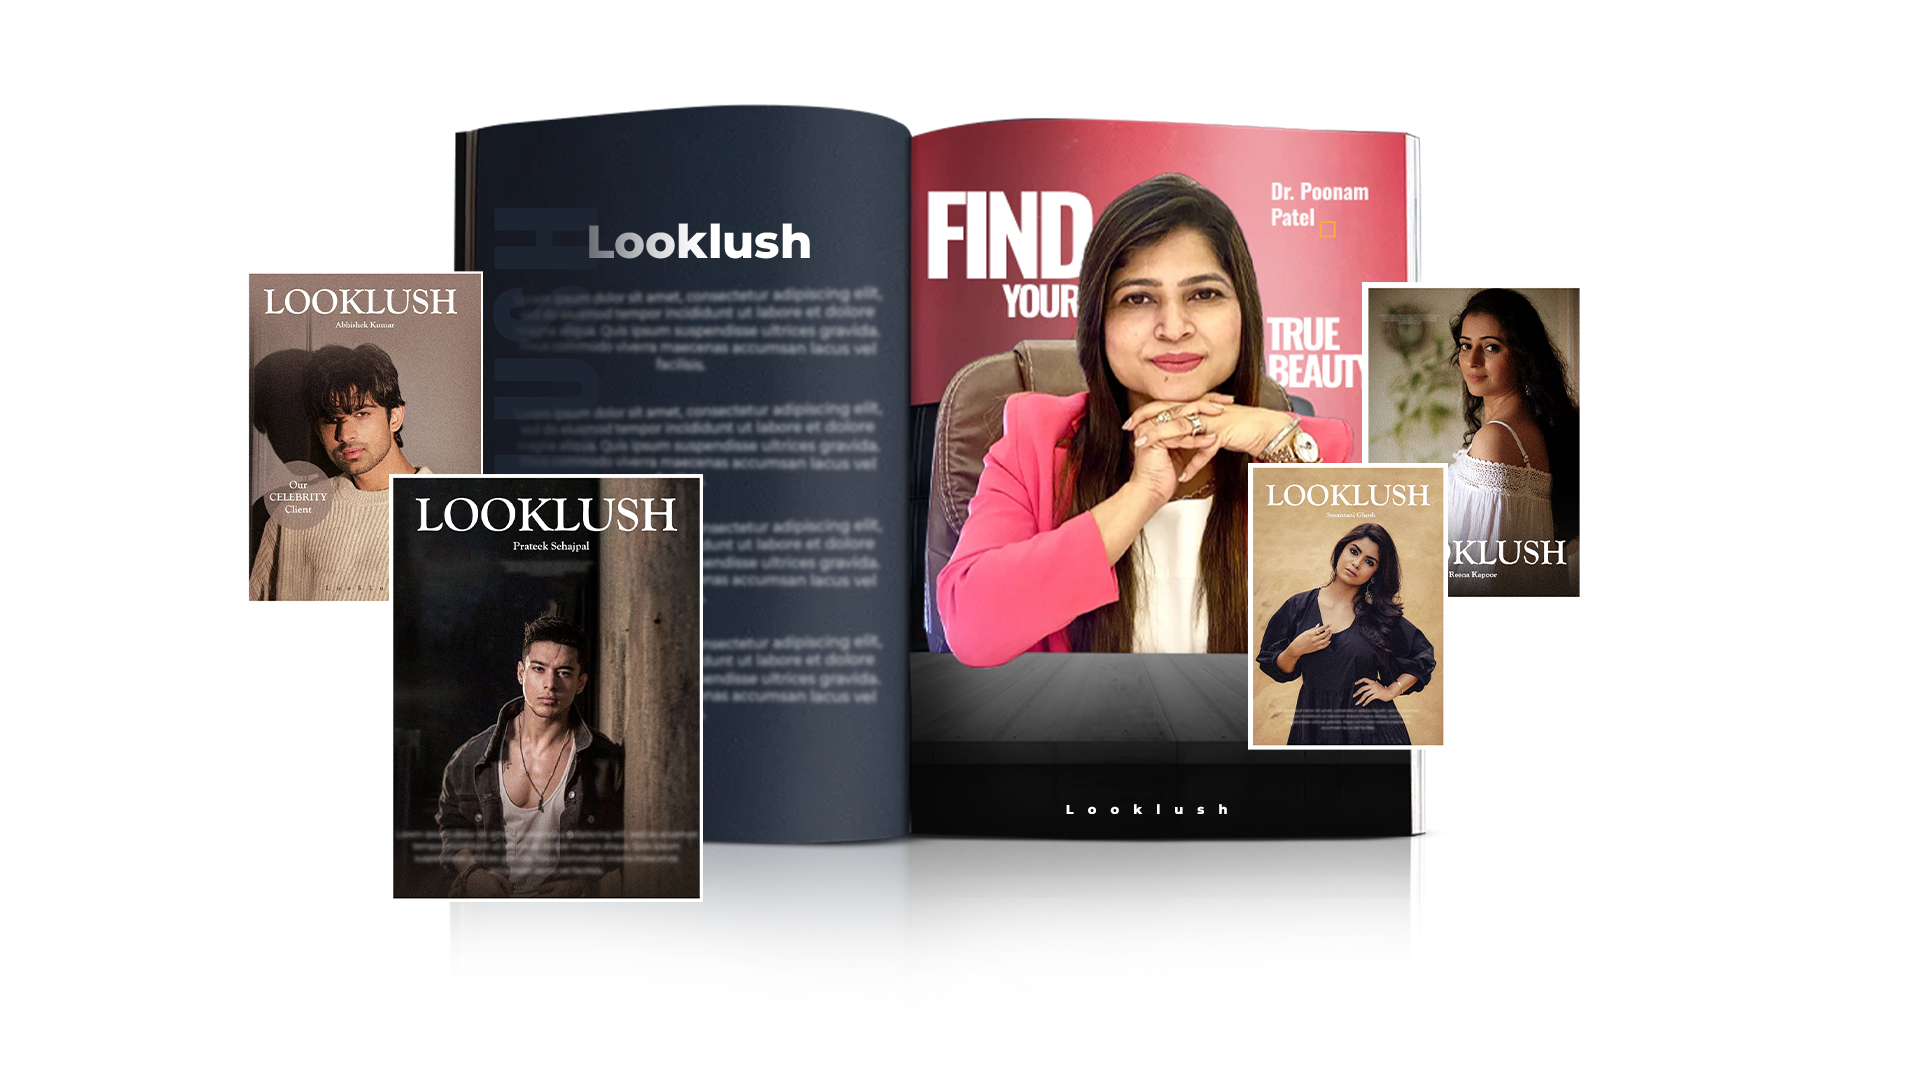
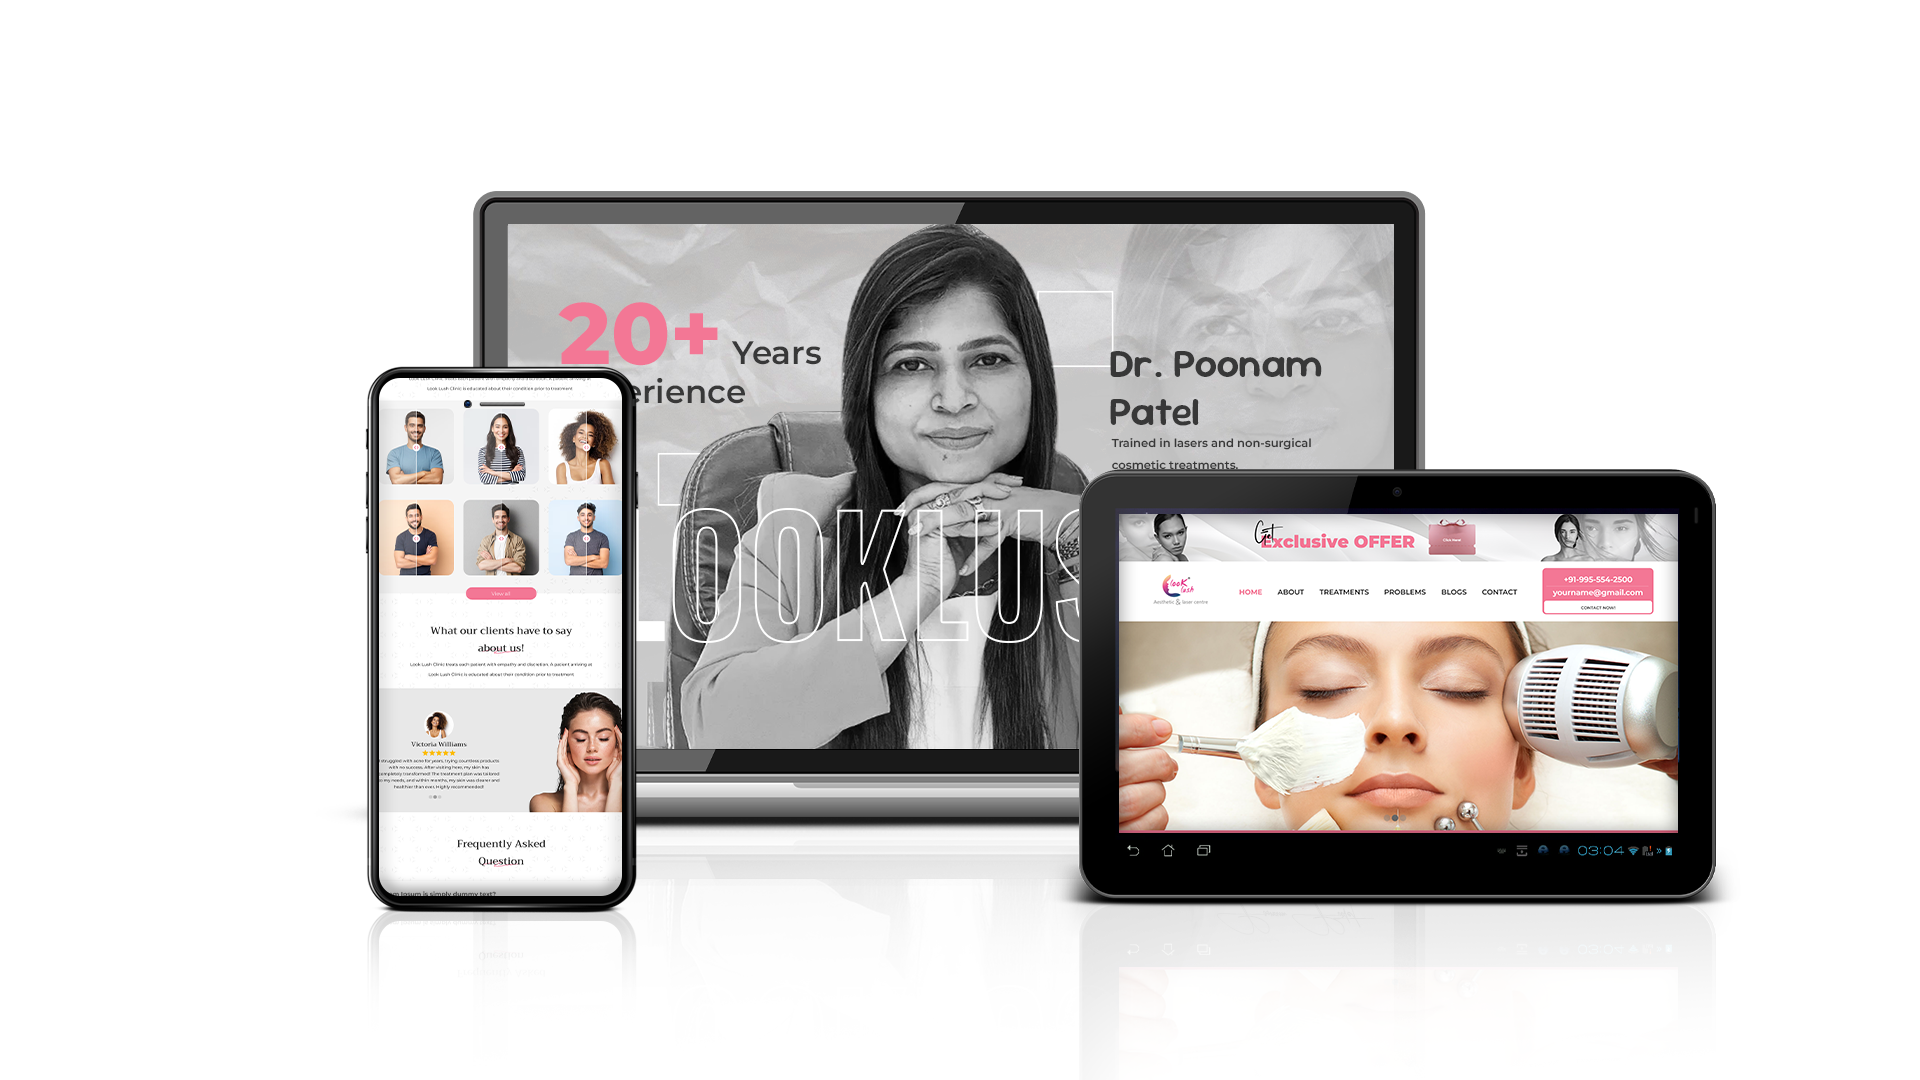
some changes done

diff --git a/src/components/common/PriceTable/index.tsx b/src/components/common/PriceTable/index.tsx
@@ -1,55 +1,6 @@
 import { PriceItem } from "@/lib/types";
 import styles from "./PriceTable.module.css";
-// const priceData2: PriceItem[] = [
-//     {
-//         service: "Acne Star",
-//         market_price: "₹999",
-//         our_price: "₹699",
-//         diff: "₹300",
-//         value: "300+ Customers",
-//         achievement: "Book Appointment",
-//     },
-//     {
-//         service: "Glow Facial",
-//         market_price: "₹1200",
-//         our_price: "₹850",
-//         diff: "₹350",
-//         value: "500+ Customers",
-//         achievement: "Book Appointment",
-//     },
-//     {
-//         service: "Hair Spa",
-//         market_price: "₹1500",
-//         our_price: "₹999",
-//         diff: "₹501",
-//         value: "250+ Customers",
-//         achievement: "Book Appointment",
-//     },
-//     {
-//         service: "Acne Star",
-//         market_price: "₹999",
-//         our_price: "₹699",
-//         diff: "₹300",
-//         value: "300+ Customers",
-//         achievement: "Book Appointment",
-//     },
-//     {
-//         service: "Glow Facial",
-//         market_price: "₹1200",
-//         our_price: "₹850",
-//         diff: "₹350",
-//         value: "500+ Customers",
-//         achievement: "Book Appointment",
-//     },
-//     {
-//         service: "Hair Spa",
-//         market_price: "₹1500",
-//         our_price: "₹999",
-//         diff: "₹501",
-//         value: "250+ Customers",
-//         achievement: "Book Appointment",
-//     },
-// ];
+import Link from "next/link";
 const PriceTabel = ({ priceData }: { priceData: PriceItem[] }) => {
   return (
     <div className={`${styles.priceTableContainer}`}>
@@ -81,9 +32,9 @@ const PriceTabel = ({ priceData }: { priceData: PriceItem[] }) => {
                 {item.value.split(" ").slice(1).join(" ")}
               </td>
               <td className={styles.tableData}>
-                <button className={styles.bookButton}>
+                <Link href={"/location"} className={styles.bookButton}>
                   {item.achievement}
-                </button>
+                </Link>
               </td>
             </tr>
           ))}

diff --git a/src/components/Home/ReelContainer/ReelContainer.module.css b/src/components/Home/ReelContainer/ReelContainer.module.css
@@ -1,7 +1,6 @@
 .reelWrapper {
   background-color: var(--bg-section-color);
   padding: 50px 0;
-  overflow-x: hidden; /* Prevents full screen shifting */
 }
 
 .reelContainer {
@@ -10,35 +9,11 @@
   display: flex;
   flex-direction: row;
   align-items: center;
-  gap: 20px;
-  overflow-x: auto;
+  gap: 100px;
+  overflow-x: scroll;
   overflow-y: hidden;
   padding-bottom: 10px;
-  scroll-snap-type: x mandatory;
-  -webkit-overflow-scrolling: touch;
-  scroll-behavior: smooth;
   justify-content: flex-start;
-  -keyboard-scrolling: true;
-}
-/* Optional: Customize scrollbar appearance */
-.reelContainer::-webkit-scrollbar {
-  height: 6px;
-}
-
-.reelContainer::-webkit-scrollbar-track {
-  background: #f1f1f1;
-}
-
-.reelContainer::-webkit-scrollbar-thumb {
-  background: #888;
-  border-radius: 3px;
-}
-
-.reelContainer::-webkit-scrollbar-thumb:hover {
-  background: #555;
-}
-.reelContainer::-webkit-scrollbar {
-  display: none;
 }
 
 .reelContainer > * {
@@ -49,5 +24,6 @@
 @media (max-width: 1200px) {
   .reelContainer {
     justify-content: flex-start;
+    gap: 30px;
   }
 }

diff --git a/src/components/Home/index.tsx b/src/components/Home/index.tsx
@@ -36,12 +36,12 @@ const Home = async () => {
             <SectionHeading line1="Our Celebrity Clients" />
 
             <SectionHeadPara para="Looklush clinic treats each patient with empathy and discretion. A patient arriving at Looklush Clinic is educated about their condition prior to treatment." />
-
             <img
                 alt="Celebrity"
-                src="/images/celebrity.png"
+                src="/images/20-years.png"
                 className={`${styles.celebrityImage}`}
             />
+
 
             <SectionHeading line1="20 years of Experience" />
 
@@ -49,10 +49,9 @@ const Home = async () => {
 
             <img
                 alt="Celebrity"
-                src="/images/20-years.png"
+                src="/images/celebrity.png"
                 className={`${styles.celebrityImage}`}
             />
-
             <Suspense fallback={<ReelContainerShimmer />}>
                 <ReelContainer />
             </Suspense>

diff --git a/src/components/common/TopBar/index.tsx b/src/components/common/TopBar/index.tsx
@@ -8,7 +8,7 @@ const TopBar = () => {
     const handleBtnClick = () => {
         openModal(
             {
-                // header: "Contact Us",
+                header: "Contact Us",
                 content: <Form />,
                 animation: "scale",
             }
@@ -28,7 +28,7 @@ const TopBar = () => {
                     alt="UpperOffer"
                 />
                 <span onClick={handleBtnClick} className={`${styles.upperOfferText}`}>
-                    <span className={`${styles.upperOfferTextBold}`}>Click Here</span>
+                    <span className={`${styles.upperOfferTextBold}`}>Book Now</span>
                 </span>
             </div>
         </div>

diff --git a/src/components/ui/Modal/Modal.tsx b/src/components/ui/Modal/Modal.tsx
@@ -10,9 +10,9 @@ export default function Modal() {
     return (
         <div className={`${styles.backdrop} ${styles[animation]}`}>
             <div className={`${styles.modal} ${styles[animation + 'In']}`}>
+                <button className={styles.closeButton} onClick={closeModal}>×</button>
                 <div className={styles.modalHeader}>
                     {header && <div className={styles.headerTitle}>{header}</div>}
-                    <button className={styles.closeButton} onClick={closeModal}>×</button>
                 </div>
                 <div className={styles.content}>{content}</div>
                 {footer && <div className={styles.footer}>{footer}</div>}

diff --git a/src/components/layout/Header/useHeader.ts b/src/components/layout/Header/useHeader.ts
@@ -10,11 +10,6 @@ export default function useHeader() {
       subLink: [],
     },
     {
-      label: "About",
-      url: "/about",
-      subLink: [],
-    },
-    {
       label: "Treatments",
       url: "/treatments",
       subLink: [
@@ -77,13 +72,18 @@ export default function useHeader() {
       ],
     },
     {
-      label: "Blog",
-      url: "/blog",
+      label: "Location",
+      url: "/location",
       subLink: [],
     },
     {
-      label: "Location",
-      url: "/location",
+      label: "About",
+      url: "/about",
+      subLink: [],
+    },
+    {
+      label: "Blog",
+      url: "/blog",
       subLink: [],
     },
     {

diff --git a/src/app/globals.css b/src/app/globals.css
@@ -19,14 +19,14 @@
   --standard-border-radius2: 5px;
 }
 
-.scrollbar-hide {
-  -ms-overflow-style: none; /* IE and Edge */
-  scrollbar-width: none; /* Firefox */
+/* .scrollbar-hide {
+  -ms-overflow-style: none;
+  scrollbar-width: none;
 }
-/* Hide scrollbar for Chrome, Safari and Opera */
+
 &::-webkit-scrollbar {
   display: none;
-}
+} */
 
 /* @theme inline {
   --color-background: var(--bg-primary-color);

diff --git a/src/components/ui/Modal/Modal.module.css b/src/components/ui/Modal/Modal.module.css
@@ -30,12 +30,11 @@
   overflow: hidden;
 }
 
-.modalHeader {
-  display: flex;
-  align-items: space-between;
-}
 .headerTitle {
+  text-align: center;
   color: var(--text-dark-color);
+  font-size: 1.5rem;
+  font-weight: 600;
 }
 /* Content Area Scrollable */
 .content {
@@ -51,7 +50,6 @@
   gap: 1rem;
 }
 
-/* Close Button */
 .closeButton {
   position: absolute;
   top: 10px;

diff --git a/src/components/Home/ReelCard/ReelCard.module.css b/src/components/Home/ReelCard/ReelCard.module.css
@@ -2,6 +2,7 @@
   width: 300px;
   position: relative;
   overflow: hidden;
+  margin-right: 30px;
   box-shadow: 0 4px 20px rgba(0, 0, 0, 0.3);
 }
 
